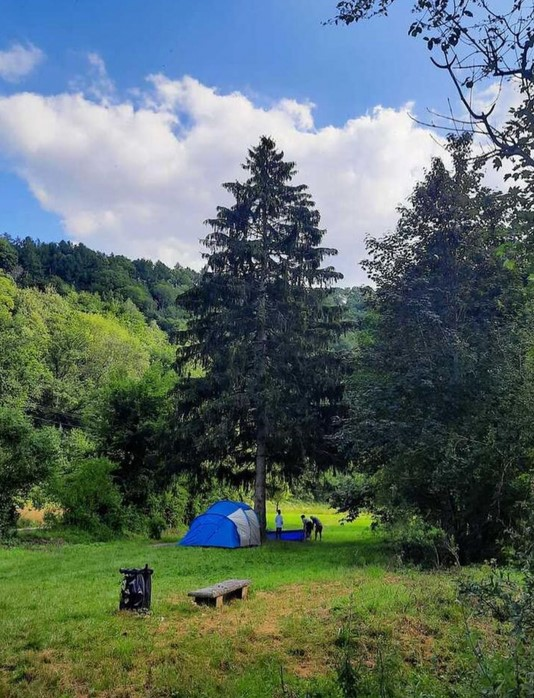
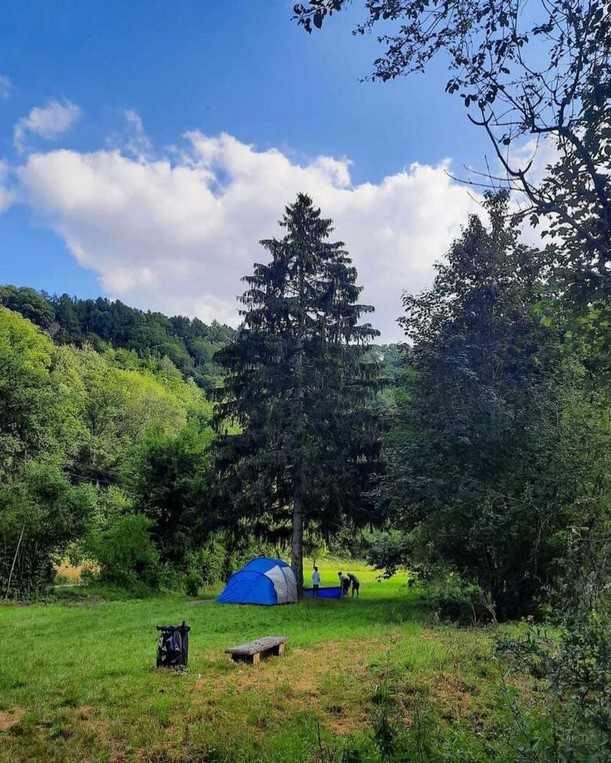
add mobile image formats

diff --git a/index.html b/index.html
@@ -36,28 +36,32 @@ title: "Alle Jongeren Op Kamp"
     text="AJOK biedt kinderen en jongeren, die om financiële of gedragsmatige redenen niet kunnen aansluiten bij het reguliere jeugdwerk, de mogelijkheid om toch een fantastische vakantie te beleven. Daar zetten wij, als team AJOK, ons dagelijks voor in."
     call_to_action="Over ons"
     url="/over-ons"
-    img="assets/images/img5_crop.jpg"  %}
+    img="assets/images/img5_crop.jpg"
+    img_mobile="assets/images/img5_mobile.jpg"  %}
 
 {% include section-img-right.html
     title="Zomer- en Paaskampen"
     text="Samen met een gemotiveerde groep vrijwilligers organiseren we vakantiekampen op maat. Momenteel bestaat ons aanbod uit een paaskamp en vier zomerkampen. Wil je meer weten? Volg de link onderaan om hier alles over te lezen."
     call_to_action="Op Kamp"
     url="/op-kamp" 
-    img="assets/images/img6_crop.jpg" %}
+    img="assets/images/img6_crop.jpg"
+    img_mobile="assets/images/img6_mobile.jpg" %}
 
 {% include section-img-left.html 
     title="Vrijwilligers" 
     text="Onze vrijwilligers zijn de drijvende kracht achter AJOK. Ze helpen ons, niet alleen tijdens de vakantieperiode, maar ook het hele jaar door. Wil je je handen uit de mouwen steken en je aanmelden als vrijwilliger? Altijd welkom, want wij zijn steeds op zoek naar mensen die ons team kunnen vervoegen! We hebben verschillende functies waar je als vrijwilliger voor kunt kiezen, van kok tot verpleger, monitor tot manus. Neem een kijkje onderaan om te zien welke functie het beste bij jou past!"
     call_to_action="Vrijwilligers"
     url="/vrijwilligers"
-    img="assets/images/img7_crop.jpg"  %}
+    img="assets/images/img7_crop.jpg"
+    img_mobile="assets/images/img7_mobile.jpg"  %}
 
 {% include section-img-right.html
     title="Steun ons"
     text="Wil je je steentje bijdragen op een andere manier? Dat kan! AJOK steunen is namelijk mogelijk op allerlei manieren. Ontdek ze allemaal door op de volgende link te klikken."
     call_to_action="Steun"
     url="/steun" 
-    img="assets/images/img8_crop.jpg" %}
+    img="assets/images/img8_crop.jpg"
+    img_mobile="assets/images/img8_mobile.jpg" %}
 
 
 

diff --git a/_includes/section-img-right.html b/_includes/section-img-right.html
@@ -1,5 +1,12 @@
-<div class="row align-items-center mb-0">
-    <div class="col-md-8  d-flex flex-column justify-content-between" style="position: relative; height:max-content; min-height: 100%; position: relative; ">
+<div class="row align-items-center mb-0 d-flex flex-wrap equal-height-row">
+    
+    {% if include.img_mobile %}
+        <div class="col-12 d-md-none" style="width: 100%;">
+            <img src="{{ include.img_mobile }}" class="img-fluid" style="object-fit: cover;">
+        </div>
+    {% endif %}
+
+    <div class="col-md-8  d-flex flex-column justify-content-between equal-height-col " style="position: relative; position: relative; ">
         <div class="row">
             <div style="padding: 50px;">
                 <h2 class="text-uppercase font-italic black-line-below">{{ include.title }}</h2>
@@ -12,10 +19,10 @@
         <div class="row mt-auto">
             <img id="hills" src="assets/images/heuveltjes.png" style="padding: 0; width: 100%;"/>
         </div>
+    </div>
 
-        
+    <div class="col-md-4 d-none d-md-block" style="padding-left: 0;">
+        <img src="{{ include.img }}" style="object-fit: cover; width: 100%;">
     </div>
-    <div class="col-md-4 img-fluid" style="padding-left: 0; max-height: 100%;">
-        <img src="{{ include.img }}">
-    </div>
+
 </div>

diff --git a/_includes/section-img-left.html b/_includes/section-img-left.html
@@ -1,14 +1,22 @@
-<div class="row align-items-center mb-0 bg-primary  text-light" style="position: relative; padding-right: 10%;">
-    <div class="col-md-4">
-        <img src="{{ include.img }}" class="img-fluid" style="max-height: 100%;">
+<div class="row align-items-center mb-0 bg-primary  text-light" style="position: relative;">
+    {% if include.img_mobile %}
+    <div class="d-md-none" style="width: 100%;">
+        <img src="{{ include.img_mobile }}" style="width: 100%;">
     </div>
+    {% endif %}
+    
+    <div class="col-md-4 d-none d-md-block"  style="padding: 0%;">
+        <img src="{{ include.img }}" class="img-fluid" style="object-fit: cover;">
+    </div>
+
     <div class="col-md-8" style="padding: 50px;">
         <h2 class="text-uppercase text-light font-italic white-line-below">{{ include.title }}</h2>
-        <p>{{ include.text }}</p>
+        <p style="padding-right: 20%;">{{ include.text }}</p>
         {% if include.call_to_action %}
             <a href="{{ include.url }}" class="btn btn-success">{{ include.call_to_action }}</a>
         {% endif %}
     </div>
+
 
 
     <img id="tree" src="assets/images/boompjes.png"
